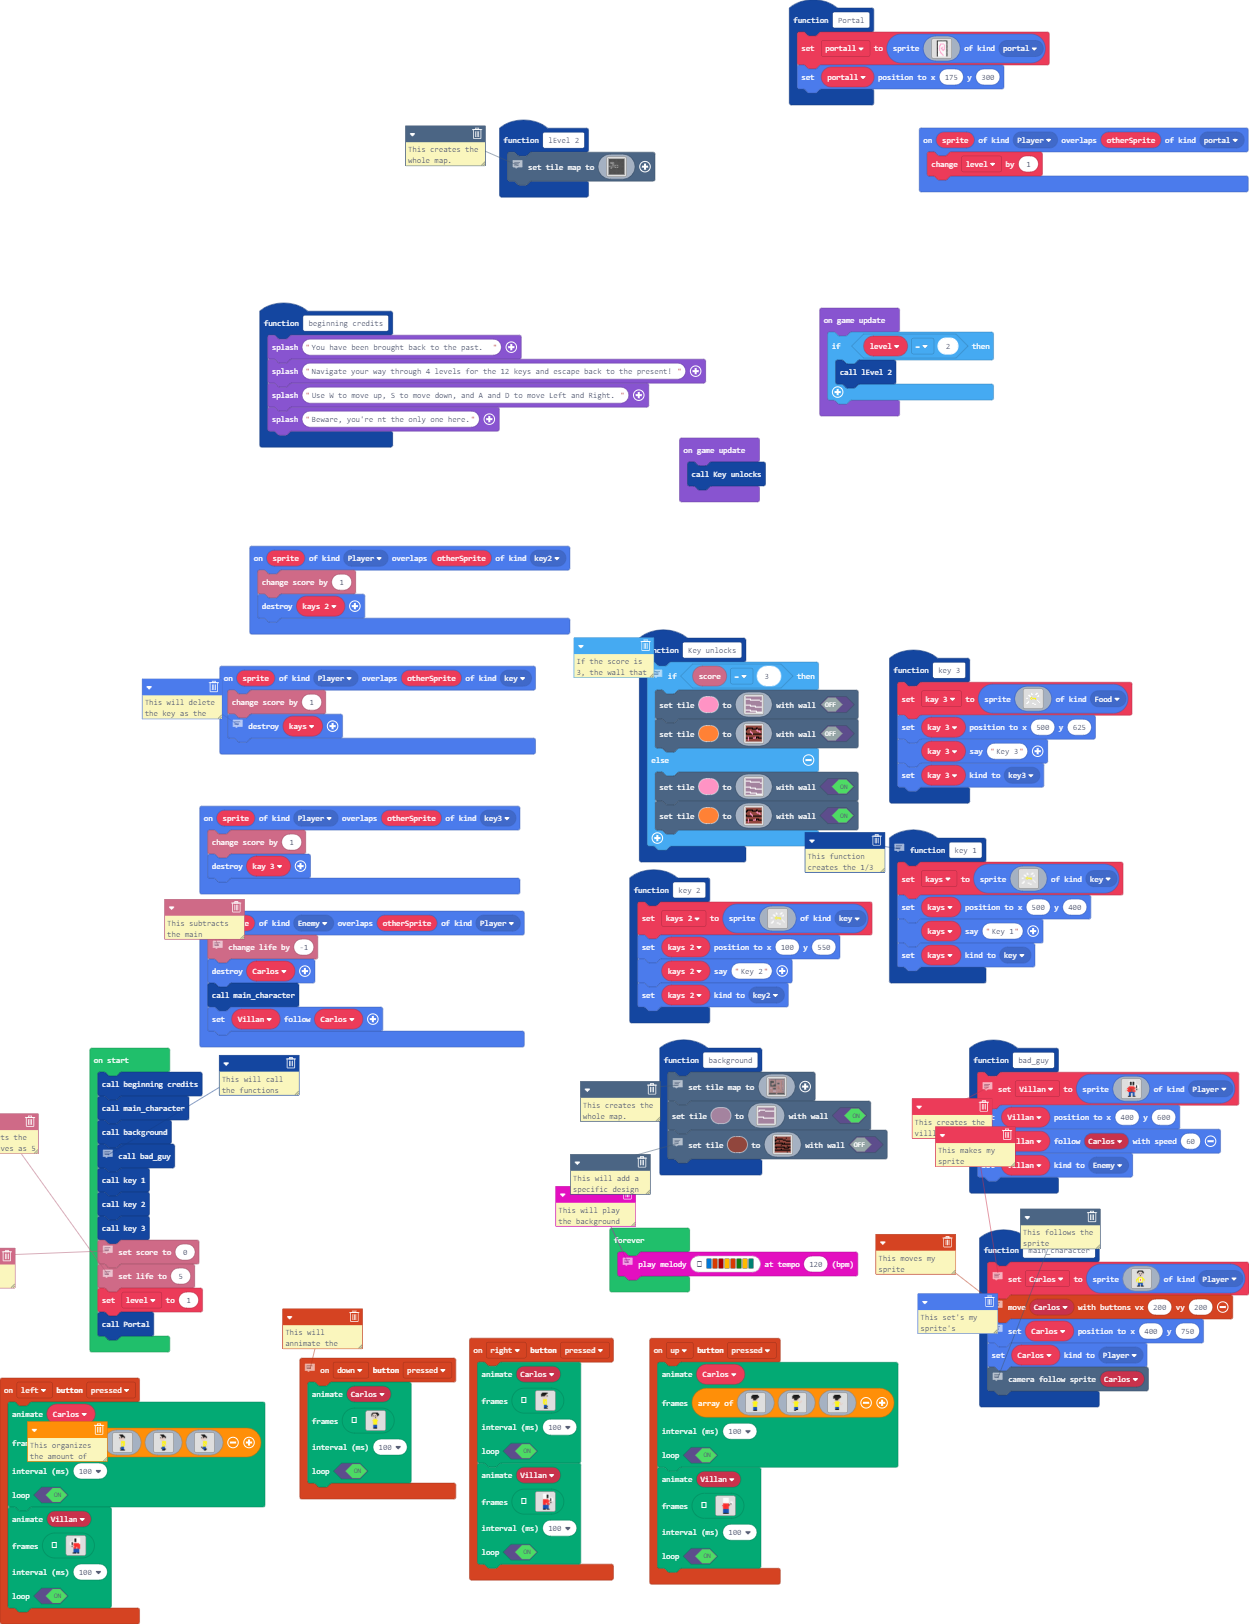
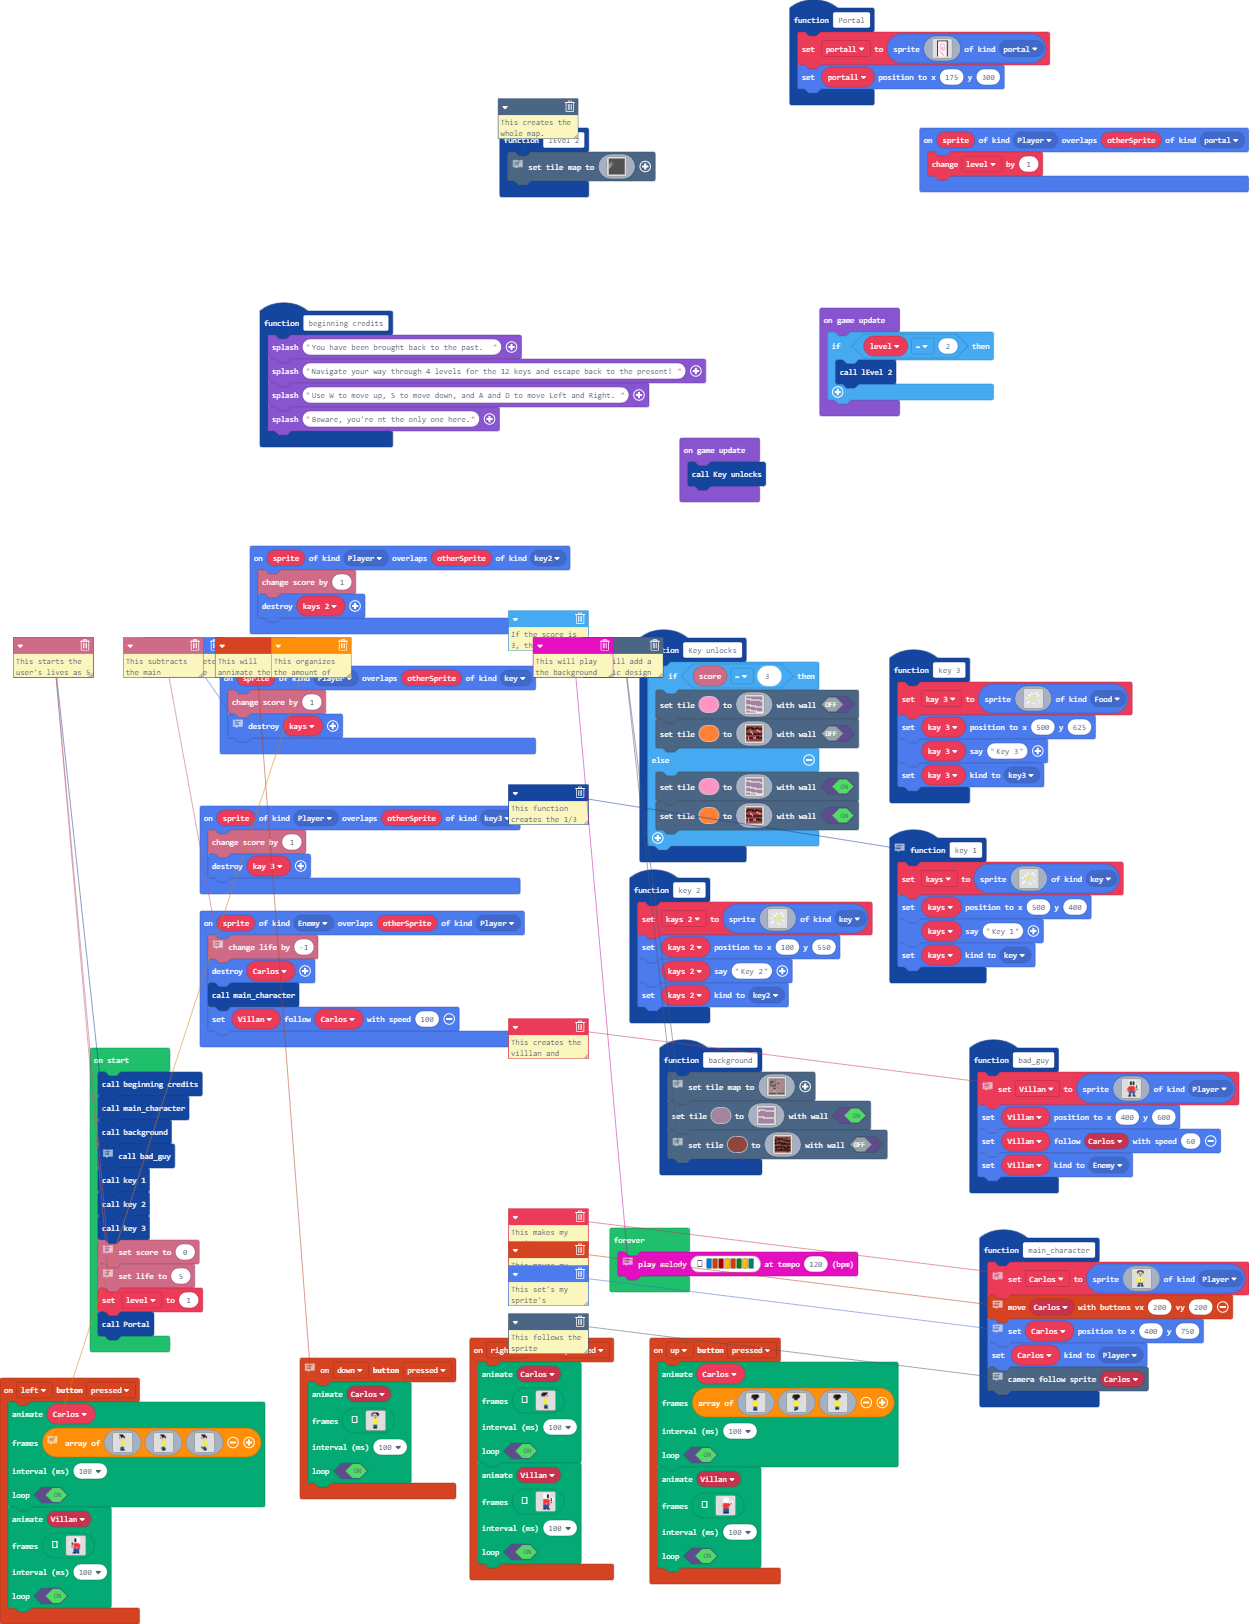
things

diff --git a/main.ts b/main.ts
@@ -50,86 +50,6 @@ function beginning_credits () {
     game.splash("Use W to move up, S to move down, and A and D to move Left and Right. ")
     game.splash("Beware, you're nt the only one here.")
 }
-function Portal () {
-    portall = sprites.create(img`
-. . . . f f f f f f f f f f f f f . . . 
-. . . . f 1 1 1 1 1 1 1 1 1 1 1 f . . . 
-. . . . f 1 1 1 1 1 1 1 1 1 1 1 f . . . 
-. . . . f 1 1 1 1 1 1 1 1 1 1 1 f . . . 
-. . . . f 1 1 1 3 3 3 3 3 1 1 1 f . . . 
-. . . . f 1 1 1 3 1 1 1 1 3 1 1 f . . . 
-. . . . f 1 1 3 3 1 1 1 1 3 1 1 f . . . 
-. . . . f 1 1 3 1 1 1 1 1 3 1 1 f . . . 
-. . . . f 1 1 3 1 1 3 3 1 3 1 1 f . . . 
-. . . . f 1 1 3 1 3 3 1 1 3 1 1 f . . . 
-. . . . f 1 1 3 1 3 3 1 1 3 1 1 f . . . 
-. . . . f 1 1 3 1 1 3 3 3 3 1 1 f . . . 
-. . . . f 1 1 3 1 1 1 3 3 1 1 1 f . . . 
-. . . . f 1 1 1 3 1 1 1 1 1 1 1 f . . . 
-. . . . f 1 1 1 3 1 1 1 1 1 1 1 f . . . 
-. . . . f 1 1 1 3 3 1 1 1 1 1 1 f . . . 
-. . . . f 1 1 1 1 3 3 1 1 1 1 1 f . . . 
-. . . . f 1 1 1 1 1 3 3 1 1 1 1 f . . . 
-. . . . f 1 1 1 1 1 1 3 3 1 1 1 f . . . 
-. . . . f 1 1 1 1 1 1 1 1 1 1 1 f . . . 
-`, SpriteKind.portal)
-    portall.setPosition(175, 300)
-}
-function lEvel_2 () {
-    // This creates the whole map.
-    scene.setTileMap(img`
-f f f f f f f f f f f f f f f f f f f f f f f f f f f f f f f f f f f f f f f f f f f f f f f f f f 
-f f f f f f f f f f f f f f f f f f f f f f f f f f f f f f f f f f f f f f f f f f f f f f f f f f 
-f f f f f f f f f f f f f f f f f f f f f f f f f f f f f f f f f f f f f f f f f f f f f f f f f f 
-f f f f f f f f f f f f f f f f f f f f f f f f f f f f f f f f f f f f f f f f f f f f f f f f f f 
-f f f f f f f f f f f f f f f f f f f f f f f f f f f f f f f f f f f f f f f f f f f f f f f f f f 
-f f f f f f f f f f f f f f f f f f f f f f f f f f f f f f f f f f f f f f f f f f f f f f f f f f 
-f f f f f f f f f f f f f f f f f f f f f f f f f f f f f f f f f f f f f f f f f f f f f f f f f f 
-f f f f f f f f f f f f f f f f f f f f f f f f f f f f f f f f f f f f f f f f f f f f f f f f f f 
-f f f f f f f f f f f f f f f f f f f f f f f f f f f f f f f f f f f f f f f f f f f f f f f f f f 
-f f f f f f f f f f f f f f f f f f f f f f f f f f f f f f f f f f f f f f f f f f f f f f f f f f 
-f f f f f f f f f f f f f f f f f f f f f f f f f f f f f f f f f f f f f f f f f f f f f f f f f f 
-f f f f f f f f f f f f f f f f f f f f f f f f f f f f f f f f f f f f f f f f f f f f f f f f f f 
-f f f f f 1 1 1 1 1 1 1 1 1 1 1 1 f f f f f f f f f f f f f f f f f f f f f f f f f f f f f f f f f 
-f f f f f f f f f f f f f f f f 1 f f f f f f f f f f f f f f f f f f f f f f f f f f f f f f f f f 
-f f f f f f f f f f f f f f f f 1 f f f f f f f f f f f f f f f f f f f f f f f f f f f f f f f f f 
-f f f f f f 1 1 1 1 1 1 1 1 f f 1 f f f f f f f f f f f f f f f f f f f f f f f f f f f f f f f f f 
-f f f f f f 1 f f f f f f 1 f f 1 f f f f f f f f f f f f f f f f f f f f f f f f f f f f f f f f f 
-f f f f f f f f f f f f f 1 f f 1 f f f f f f f f f f f f f f f f f f f f f f f f f f f f f f f f f 
-f f f f f f f f f f f f f 1 f f 1 f f f f f f f f f f f f f f f f f f f f f f f f f f f f f f f f f 
-f f f f f f f f f f f f f 1 f f 1 f f f f f f f f f f f f f f f f f f f f f f f f f f f f f f f f f 
-f f f f f f f f f f f f f 1 f f 1 f f f 1 1 1 1 f f 1 1 1 1 f f f f f f f f f f f f f f f f f f f f 
-f f f f f f f f f f f f f 1 f f 1 f f f 1 f f f f f f f f 1 f f f f f f f f f f f f f f f f f f f f 
-f f 1 1 1 1 1 1 1 1 1 1 1 1 f f 1 1 1 1 1 f f f f f f f f 1 f f f f f f f f f f f f f f f f f f f f 
-f f 1 f f f f f f f f f f f f f f f f f f f f f f f f f f f f f f f f f f f f f f f f f f f f f f f 
-f f 1 f f f f f f f f f f f f f f f f f f f f f f f f f f f f f f f f f f f f f f f f f f f f f f f 
-f f 1 1 1 1 1 1 1 1 f f 1 1 1 1 1 1 1 1 1 f f f f f f f f 1 f f f f f f f f f f f f f f f f f f f f 
-f f f f f f f f f 1 f f 1 f f f f f f f 1 f f f f f f f f 1 f f f f f f f f f f f f f f f f f f f f 
-f f f f f f f f f 1 f f f f f f f f f f 1 1 1 1 f f 1 1 1 1 f f f f f f f f f f f f f f f f f f f f 
-f f f f f f f f f 1 f f f f f f f f f f f f f f f f f f f f f f f f f f f f f f f f f f f f f f f f 
-f f f f f f f f f 1 f f f f f f f f f f f f f f f f f f f f f f f f f f f f f f f f f f f f f f f f 
-f f f f f f 1 1 1 1 f f f f f f f f f f f f f f f f f f f f f f f f f f f f f f f f f f f f f f f f 
-f f f f f f f f f f f f f f f f f f f f f f f f f f f f f f f f f f f f f f f f f f f f f f f f f f 
-f f f f f f f f f f f f f f f f f f f f f f f f f f f f f f f f f f f f f f f f f f f f f f f f f f 
-f f f f f f f f f f f f f f f f f f f f f f f f f f f f f f f f f f f f f f f f f f f f f f f f f f 
-f f f f f f f f f f f f f f f f f f f f f f f f f f f f f f f f f f f f f f f f f f f f f f f f f f 
-f f f f f f f f f f f f f f f f f f f f f f f f f f f f f f f f f f f f f f f f f f f f f f f f f f 
-f f f f f f f f f f f f f f f f f f f f f f f f f f f f f f f f f f f f f f f f f f f f f f f f f f 
-f f f f f f f f f f f f f f f f f f f f f f f f f f f f f f f f f f f f f f f f f f f f f f f f f f 
-f f f f f f f f f f f f f f f f f f f f f f f f f f f f f f f f f f f f f f f f f f f f f f f f f f 
-f f f f f f f f f f f f f f f f f f f f f f f f f f f f f f f f f f f f f f f f f f f f f f f f f f 
-f f f f f f f f f f f f f f f f f f f f f f f f f f f f f f f f f f f f f f f f f f f f f f f f f f 
-f f f f f f f f f f f f f f f f f f f f f f f f f f f f f f f f f f f f f f f f f f f f f f f f f f 
-f f f f f f f f f f f f f f f f f f f f f f f f f f f f f f f f f f f f f f f f f f f f f f f f f f 
-f f f f f f f f f f f f f f f f f f f f f f f f f f f f f f f f f f f f f f f f f f f f f f f f f f 
-f f f f f f f f f f f f f f f f f f f f f f f f f f f f f f f f f f f f f f f f f f f f f f f f f f 
-f f f f f f f f f f f f f f f f f f f f f f f f f f f f f f f f f f f f f f f f f f f f f f f f f f 
-f f f f f f f f f f f f f f f f f f f f f f f f f f f f f f f f f f f f f f f f f f f f f f f f f f 
-f f f f f f f f f f f f f f f f f f f f f f f f f f f f f f f f f f f f f f f f f f f f f f f f f f 
-f f f f f f f f f f f f f f f f f f f f f f f f f f f f f f f f f f f f f f f f f f f f f f f f f f 
-f f f f f f f f f f f f f f f f f f f f f f f f f f f f f f f f f f f f f f f f f f f f f f f f f f 
-`)
-}
 sprites.onOverlap(SpriteKind.Player, SpriteKind.key3, function (sprite, otherSprite) {
     info.changeScoreBy(1)
     kay_3.destroy()
@@ -482,7 +402,7 @@ sprites.onOverlap(SpriteKind.Enemy, SpriteKind.Player, function (sprite, otherSp
     info.changeLifeBy(-1)
     Carlos.destroy()
     main_character()
-    Villan.follow(Carlos)
+    Villan.follow(Carlos, 100)
 })
 // This function creates the 1/3 keys and positions
 // them in 3 specific places.
@@ -515,6 +435,61 @@ sprites.onOverlap(SpriteKind.Player, SpriteKind.key, function (sprite, otherSpri
     // collected them.
     kays.destroy()
 })
+function lEvel_2 () {
+    // This creates the whole map.
+    scene.setTileMap(img`
+f f f f f f f f f f f f f f f f f f f f f f f f f f f f f f f f f f f f f f f f f f f f f f f f f f 
+f f f f f f f f f f f f f f f f f f f f f f f f f f f f f f f f f f f f f f f f f f f f f f f f f f 
+f f f f f f f f f f f f f f f f f f f f f f f f f f f f f f f f f f f f f f f f f f f f f f f f f f 
+f f f f f f f f f f f f f f f f f f f f f f f f f f f f f f f f f f f f f f f f f f f f f f f f f f 
+f f f f f f f f f f f f f f f f f f f f f f f f f f f f f f f f f f f f f f f f f f f f f f f f f f 
+f f f f f f f f f f f f f f f f f f f f f f f f f f f f f f f f f f f f f f f f f f f f f f f f f f 
+f f f f f f f f f f f f f f f f f f f f f f f f f f f f f f f f f f f f f f f f f f f f f f f f f f 
+f f f f f f f f f f f f f f f f f f f f f f f f f f f f f f f f f f f f f f f f f f f f f f f f f f 
+f f f f f f f f f f f f f f f f f f f f f f f f f f f f f f f f f f f f f f f f f f f f f f f f f f 
+f f f f f f f f 1 f f f f f f f f f f f f f f f f f f f f f f f f f f f f f f f f f f f f f f f f f 
+f f f f f f f f 1 f f f f f f f f f f f f f f f f f f f f f f f f f f f f f f f f f f f f f f f f f 
+f f f f f f f f 1 f f f f f f f f f f f f f f f f f f f f f f f f f f f f f f f f f f f f f f f f f 
+f f f f f f f f 1 f f f f f f f f f f f f f f f f f f f f f f f f f f f f f f f f f f f f f f f f f 
+f f f f f f f f 1 f f f f f f f f f f f f f f f f f f f f f f f f f f f f f f f f f f f f f f f f f 
+f f f f f f f f 1 f f f f f f f f f f f f f f f f f f f f f f f f f f f f f f f f f f f f f f f f f 
+f f f f f f 1 1 1 f f 1 1 1 f f f f f f f f f f f f f f f f f f f f f f f f f f f f f f f f f f f f 
+f f 1 1 1 1 1 f f f f f f 1 f f f f f f f f f f f f f f f f f f f f f f f f f f f f f f f f f f f f 
+f f 1 f f f f f f f f f f f f f f f f f f f f f f f f f f f f f f f f f f f f f f f f f f f f f f f 
+f f 1 f f f f f f f f f f f f f f f f f f f f f f f f f f f f f f f f f f f f f f f f f f f f f f f 
+f f 1 f f 1 1 1 1 f f 1 1 1 f f f f f f f f f f f f f f f f f f f f f f f f f f f f f f f f f f f f 
+f f 1 f f 1 f f 1 f f f f f f f f f f f f f f f f f f f f f f f f f f f f f f f f f f f f f f f f f 
+f f 1 f f 1 f f 1 f f f f f f f f f f f f f f f f f f f f f f f f f f f f f f f f f f f f f f f f f 
+f f 1 f f 1 f f 1 f f f f f f f f f f f f f f f f f f f f f f f f f f f f f f f f f f f f f f f f f 
+f f 1 f f 1 1 1 1 f f f f f f f f f f f f f f f f f f f f f f f f f f f f f f f f f f f f f f f f f 
+f f 1 f f f f f f f f f f f f f f f f f f f f f f f f f f f f f f f f f f f f f f f f f f f f f f f 
+f f 1 f f f f f f f f f f f f f f f f f f f f f f f f f f f f f f f f f f f f f f f f f f f f f f f 
+f f 1 f f 1 f f f f f f f f f f f f f f f f f f f f f f f f f f f f f f f f f f f f f f f f f f f f 
+f f 1 f f 1 f f f f f f f f f f f f f f f f f f f f f f f f f f f f f f f f f f f f f f f f f f f f 
+f f 1 f f 1 f f f f f f f f f f f f f f f f f f f f f f f f f f f f f f f f f f f f f f f f f f f f 
+f f 1 f f 1 f f f f f f f f f f f f f f f f f f f f f f f f f f f f f f f f f f f f f f f f f f f f 
+f f 1 f f f f f f f f f f f f f f f f f f f f f f f f f f f f f f f f f f f f f f f f f f f f f f f 
+f f 1 f f f f f f f f f f f f f f f f f f f f f f f f f f f f f f f f f f f f f f f f f f f f f f f 
+f f f f f f f f f f f f f f f f f f f f f f f f f f f f f f f f f f f f f f f f f f f f f f f f f f 
+f f f f f f f f f f f f f f f f f f f f f f f f f f f f f f f f f f f f f f f f f f f f f f f f f f 
+f f f f f f f f f f f f f f f f f f f f f f f f f f f f f f f f f f f f f f f f f f f f f f f f f f 
+f f f f f f f f f f f f f f f f f f f f f f f f f f f f f f f f f f f f f f f f f f f f f f f f f f 
+f f f f f f f f f f f f f f f f f f f f f f f f f f f f f f f f f f f f f f f f f f f f f f f f f f 
+f f f f f f f f f f f f f f f f f f f f f f f f f f f f f f f f f f f f f f f f f f f f f f f f f f 
+f f f f f f f f f f f f f f f f f f f f f f f f f f f f f f f f f f f f f f f f f f f f f f f f f f 
+f f f f f f f f f f f f f f f f f f f f f f f f f f f f f f f f f f f f f f f f f f f f f f f f f f 
+f f f f f f f f f f f f f f f f f f f f f f f f f f f f f f f f f f f f f f f f f f f f f f f f f f 
+f f f f f f f f f f f f f f f f f f f f f f f f f f f f f f f f f f f f f f f f f f f f f f f f f f 
+f f f f f f f f f f f f f f f f f f f f f f f f f f f f f f f f f f f f f f f f f f f f f f f f f f 
+f f f f f f f f f f f f f f f f f f f f f f f f f f f f f f f f f f f f f f f f f f f f f f f f f f 
+f f f f f f f f f f f f f f f f f f f f f f f f f f f f f f f f f f f f f f f f f f f f f f f f f f 
+f f f f f f f f f f f f f f f f f f f f f f f f f f f f f f f f f f f f f f f f f f f f f f f f f f 
+f f f f f f f f f f f f f f f f f f f f f f f f f f f f f f f f f f f f f f f f f f f f f f f f f f 
+f f f f f f f f f f f f f f f f f f f f f f f f f f f f f f f f f f f f f f f f f f f f f f f f f f 
+f f f f f f f f f f f f f f f f f f f f f f f f f f f f f f f f f f f f f f f f f f f f f f f f f f 
+f f f f f f f f f f f f f f f f f f f f f f f f f f f f f f f f f f f f f f f f f f f f f f f f f f 
+`)
+}
 function key_2 () {
     kays_2 = sprites.create(img`
 . . . . . . . . . . . . . . . . 
@@ -762,6 +737,31 @@ controller.right.onEvent(ControllerButtonEvent.Pressed, function () {
     true
     )
 })
+function Portal () {
+    portall = sprites.create(img`
+. . . . f f f f f f f f f f f f f . . . 
+. . . . f 1 1 1 1 1 1 1 1 1 1 1 f . . . 
+. . . . f 1 1 1 1 1 1 1 1 1 1 1 f . . . 
+. . . . f 1 1 1 1 1 1 1 1 1 1 1 f . . . 
+. . . . f 1 1 1 3 3 3 3 3 1 1 1 f . . . 
+. . . . f 1 1 1 3 1 1 1 1 3 1 1 f . . . 
+. . . . f 1 1 3 3 1 1 1 1 3 1 1 f . . . 
+. . . . f 1 1 3 1 1 1 1 1 3 1 1 f . . . 
+. . . . f 1 1 3 1 1 3 3 1 3 1 1 f . . . 
+. . . . f 1 1 3 1 3 3 1 1 3 1 1 f . . . 
+. . . . f 1 1 3 1 3 3 1 1 3 1 1 f . . . 
+. . . . f 1 1 3 1 1 3 3 3 3 1 1 f . . . 
+. . . . f 1 1 3 1 1 1 3 3 1 1 1 f . . . 
+. . . . f 1 1 1 3 1 1 1 1 1 1 1 f . . . 
+. . . . f 1 1 1 3 1 1 1 1 1 1 1 f . . . 
+. . . . f 1 1 1 3 3 1 1 1 1 1 1 f . . . 
+. . . . f 1 1 1 1 3 3 1 1 1 1 1 f . . . 
+. . . . f 1 1 1 1 1 3 3 1 1 1 1 f . . . 
+. . . . f 1 1 1 1 1 1 3 3 1 1 1 f . . . 
+. . . . f 1 1 1 1 1 1 1 1 1 1 1 f . . . 
+`, SpriteKind.portal)
+    portall.setPosition(175, 300)
+}
 controller.up.onEvent(ControllerButtonEvent.Pressed, function () {
     animation.runImageAnimation(
     Carlos,
@@ -884,12 +884,12 @@ controller.up.onEvent(ControllerButtonEvent.Pressed, function () {
     true
     )
 })
+let portall: Sprite = null
 let kays: Sprite = null
 let kays_2: Sprite = null
 let Carlos: Sprite = null
 let Villan: Sprite = null
 let kay_3: Sprite = null
-let portall: Sprite = null
 beginning_credits()
 main_character()
 background()
